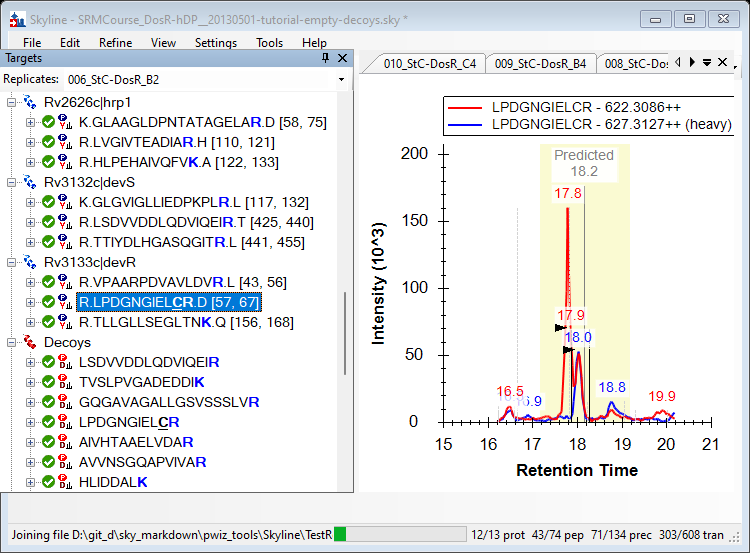
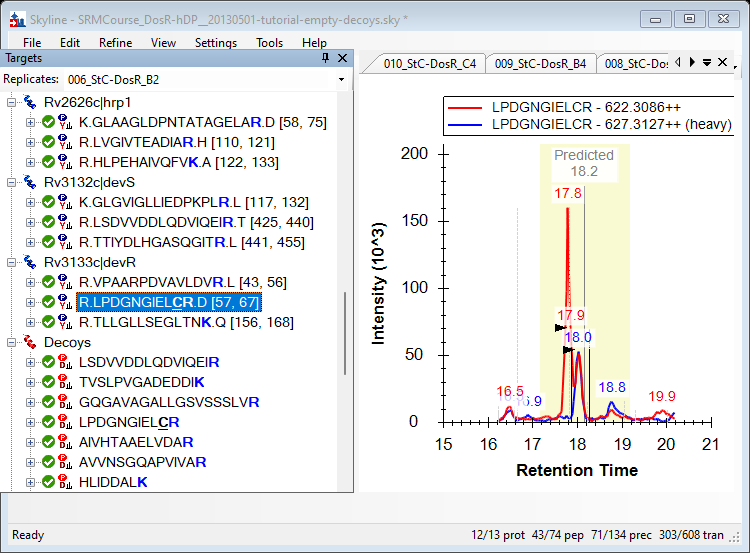
Add a few more images

Changed region(s): [[0.0, 0.953, 0.46, 0.9837]]

diff --git a/pwiz_tools/Skyline/TestTutorial/PeakPickingTutorialTest.cs b/pwiz_tools/Skyline/TestTutorial/PeakPickingTutorialTest.cs
@@ -174,6 +174,9 @@ namespace pwiz.SkylineTestTutorial
                     dlg.FontSize = GraphFontSize.LARGE;
                     dlg.OkDialog();
                 });
+            // wait for the document to finish loading so that there is nothing showing in the status bar
+            WaitForDocumentLoaded();
+
             RunUISaveScreenshot(SkylineWindow, "MainWindow");
 
             // Test different point types on RTLinearRegressionGraph
@@ -231,7 +234,7 @@ namespace pwiz.SkylineTestTutorial
             OkDialog(editDlg, editDlg.OkDialog);
             OkDialog(reintegrateDlg, reintegrateDlg.CancelDialog);
 
-            PauseForScreenShot<FindResultsForm>("Find Results view clipped from main window", 12);
+            RunUISaveFormScreenshot<FindResultsForm>("FindResultsViewClippedFromMainWindow");
 
             // Remove the peptide with no library dot product, and train again
             FindResultsForm findResultsForm = null;
@@ -296,10 +299,10 @@ namespace pwiz.SkylineTestTutorial
                     }
                     editDlgLibrary.TrainModel(true);
                 });
-            PauseForScreenShot<EditPeakScoringModelDlg.ModelTab>("Edit Peak Scoring Model form with library score", 13);
+            RunUISaveScreenshot(editDlgLibrary, "EditPeakScoringModelFormWithLibraryScore");
 
             RunUI(() => editDlgLibrary.SelectedGraphTab = 3);
-            PauseForScreenShot<EditPeakScoringModelDlg.QvalueTab>("Edit Peak Scoring Model form q value graph with library score metafile", 14);
+            RunUISaveScreenshot(editDlgLibrary.ZedGraphQValues, "EditPeakScoringModelFormQValueGraphWithLibraryScore");
 
             OkDialog(editDlgLibrary, editDlgLibrary.OkDialog);
 
@@ -321,7 +324,7 @@ namespace pwiz.SkylineTestTutorial
                     // Check that these cells are still active even though they've been unchecked
                     Assert.IsTrue(editDlgNew.IsActiveCell(6, 0));
                 });
-            PauseForScreenShot<EditPeakScoringModelDlg.ModelTab>("Edit Peak Scoring Model form with second best", 15);
+            RunUISaveScreenshot(editDlgNew, "EditPeakScoringModelFormWithSecondBest");
 
             OkDialog(editDlgNew, editDlgNew.CancelDialog);
             OkDialog(editListLibrary, editListLibrary.OkDialog);

diff --git a/pwiz_tools/Skyline/TestUtil/DocumentationGeneratorTest.cs b/pwiz_tools/Skyline/TestUtil/DocumentationGeneratorTest.cs
@@ -64,6 +64,11 @@ namespace pwiz.SkylineTestUtil
             });
         }
 
+        public void RunUISaveFormScreenshot<TForm>(string filename) where TForm : Form
+        {
+            RunUI(()=>SaveScreenshot(FindOpenForm<TForm>(), filename));
+        }
+
         public void SaveGraphEmf(ZedGraphControl zedGraphControl, string filename)
         {
             zedGraphControl.SaveEmfFile(Path.Combine(GetImagesFolder(), filename + ".emf"));

diff --git a/pwiz_tools/Skyline/Documentation/Tutorials/markdown/PeakPicking/AdvancedPeakPicking.md b/pwiz_tools/Skyline/Documentation/Tutorials/markdown/PeakPicking/AdvancedPeakPicking.md
@@ -325,7 +325,7 @@ are not yet ready to do. (If you did, click **Undo** now.)
 
 On the **Find Results** dialog, there should be 6 peptides in the list.
 
-<img src="media/image12.png" style="width:6.48958in;height:1.6875in" />
+<img src="media/FindResultsViewClippedFromMainWindow.png" style="width:6.48958in;height:1.6875in" />
 
 - Double-click on the first peptide in the list, LGGNEQVTR.
 
@@ -344,7 +344,7 @@ dot-product** score active. This first peptide appears under the
 used in this experiment, it was obviously not included in the iRT
 calculator for this document. In the **Targets** view, it lacks the tiny
 clock icon
-<img src="media/image13.png" style="width:0.15625in;height:0.15625in" />
+<img src="media/PeptideWithClockIcon.png" style="width:0.15625in;height:0.15625in" />
 (in the upper-right corner of the peptide icon) indicating an iRT
 standard peptide. Skyline automatically excludes standard peptides from
 scoring consideration. Although, in this document, all of the other iRT
@@ -420,7 +420,7 @@ The **Library intensity dot-product** score should now have a weight and
 a percent contribution, and scoring should be slightly improved. The
 **Edit Peak Scoring Model** form should look like this:
 
-<img src="media/image14.png" style="width:6.5in;height:4.13889in" />
+<img src="media/EditPeakScoringModelFormWithLibraryScore.png" style="width:6.5in;height:4.13889in" />
 
 The **Q Values** plot will now be improved as well:
 
@@ -428,7 +428,7 @@ The **Q Values** plot will now be improved as well:
 
 You should see a graph like the following:
 
-<img src="media/image15.emf" style="width:4.44792in;height:4.48958in" />
+<img src="media/EditPeakScoringModelFormQValueGraphWithLibraryScore.png" style="width:4.44792in;height:4.48958in" />
 
 As you can see, most of the q values are now smaller after adding the
 new scores, indicating higher confidence in the picked peaks.
@@ -482,7 +482,7 @@ re-train the model:
 The graphs should now update and the scores that were unchecked should
 be removed. The model should look like this:
 
-<img src="media/image16.png" style="width:6.5in;height:4.01736in" />
+<img src="media/EditPeakScoringModelFormWithSecondBest.png" style="width:6.5in;height:4.01736in" />
 
 You will not use this modified model. To return to the original model,
 simply cancel the form:
